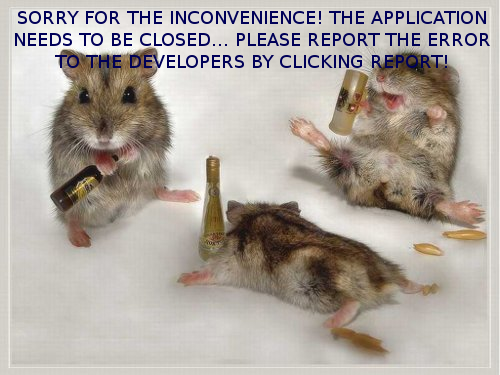
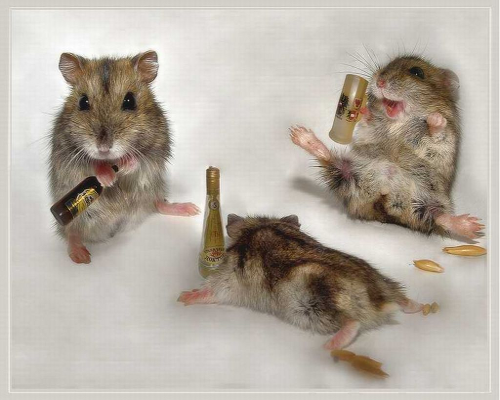
Contexts: Revamping the ErrorWindow.

Changed region(s): [[0.03, 0.0293, 0.99, 0.2053]]

diff --git a/Contexts/src/guitarjava/components/ErrorWindow.java b/Contexts/src/guitarjava/components/ErrorWindow.java
@@ -2,6 +2,7 @@ package guitarjava.components;
 
 import java.awt.Color;
 import java.awt.Desktop;
+import java.awt.GridBagConstraints;
 import java.awt.event.ActionEvent;
 import java.awt.event.ActionListener;
 import java.awt.event.WindowAdapter;
@@ -9,13 +10,13 @@ import java.awt.event.WindowEvent;
 import java.net.URI;
 import javax.swing.JDialog;
 import javax.swing.JOptionPane;
+import javax.swing.JScrollPane;
 import javax.swing.JTextArea;
 
 /**
- * Class to show a fatal error and finalize application. To use it you need the
- * ErrorBackground.png and ReportButton.png. In the future this class must use
- * components from Components package to make things work. When the window is
- * closed the application is finalized.
+ * Class to show a fatal error and finalize application. 
+ * In the future this class must use components from Components package
+ * to make things work. When the window is closed the application is finalized.
  *
  * @author brunojadami
  */
@@ -23,10 +24,12 @@ public class ErrorWindow extends JDialog implements ActionListener, Thread.Uncau
 {
 
     private Picture background; // Background image
+    private Picture intro; // The top message
     private Library library; // Lib to load things
     private Button okButton; // Button to report
     private String url; // Url to go when button pressed
     private Throwable ex; // Exception
+    private JScrollPane scrollPane; // Scroll pane of text area
 
     /**
      * Default constructor.
@@ -64,7 +67,7 @@ public class ErrorWindow extends JDialog implements ActionListener, Thread.Uncau
      */
     public void showWindow()
     {
-        setTitle("An Error has occured!");
+        setTitle("Ops! An Error has occured!");
         setDefaultCloseOperation(DISPOSE_ON_CLOSE);
         setResizable(false);
         setLayout(null);
@@ -84,10 +87,14 @@ public class ErrorWindow extends JDialog implements ActionListener, Thread.Uncau
             background = new Picture(library.getPicture("ErrorBackground"), 0, 0);
             okButton = new Button(library.getDefaultFont(), "REPORT!", "REPORT_PRESSED", library.getPicture("ReportButton"), 0, 0);
             setSize(background.getWidth(), background.getHeight() + 30);
-            okButton.setLocation((background.getWidth() - okButton.getWidth()) / 2, (background.getHeight() - okButton.getHeight() * 2));
+            intro = new Picture(library.getPicture("TopMessage"), 0, 0);
+            intro.setLocation((background.getWidth() - intro.getWidth()) / 2, 10);
             okButton.addActionListener(this);
+            add(intro);
             add(okButton);
             prepareTrace(ex);
+            okButton.setLocation((background.getWidth() - okButton.getWidth()) / 2,
+                    scrollPane.getY() + scrollPane.getHeight());
             add(background);
         }
         catch (Exception e)
@@ -117,13 +124,14 @@ public class ErrorWindow extends JDialog implements ActionListener, Thread.Uncau
         }
         JTextArea txt = new JTextArea();
         txt.setEditable(false);
-        txt.setBounds(20, 80, getWidth() - 40, getHeight() - 80);
-        txt.setOpaque(false);
+        scrollPane = new JScrollPane(txt);
+        scrollPane.setBounds(20, intro.getY() + intro.getHeight(), getWidth() - 40, 215);
         txt.setText(message);
         txt.setFont(library.getDefaultFont());
         txt.setForeground(Color.red);
-        txt.setLineWrap(true);
-        add(txt);
+        add(scrollPane);
+        txt.setBackground(new Color(1.0f, 1.0f, 1.0f, 0.3f));
+        scrollPane.setBackground(new Color(1.0f, 1.0f, 1.0f, 0.3f));
     }
 
     /**

diff --git a/Contexts/src/guitarjava/main/Main.java b/Contexts/src/guitarjava/main/Main.java
@@ -25,7 +25,7 @@ public class Main
      */
     public static void main(String[] args)
     {
-        Thread.setDefaultUncaughtExceptionHandler(new ErrorWindow("http://www.google.com"));
+        Thread.setDefaultUncaughtExceptionHandler(new ErrorWindow(null));
 
         final DrawData ddata = new DrawData();
         final GraphicsInterface graphics = new Graphics2DContext(33);
